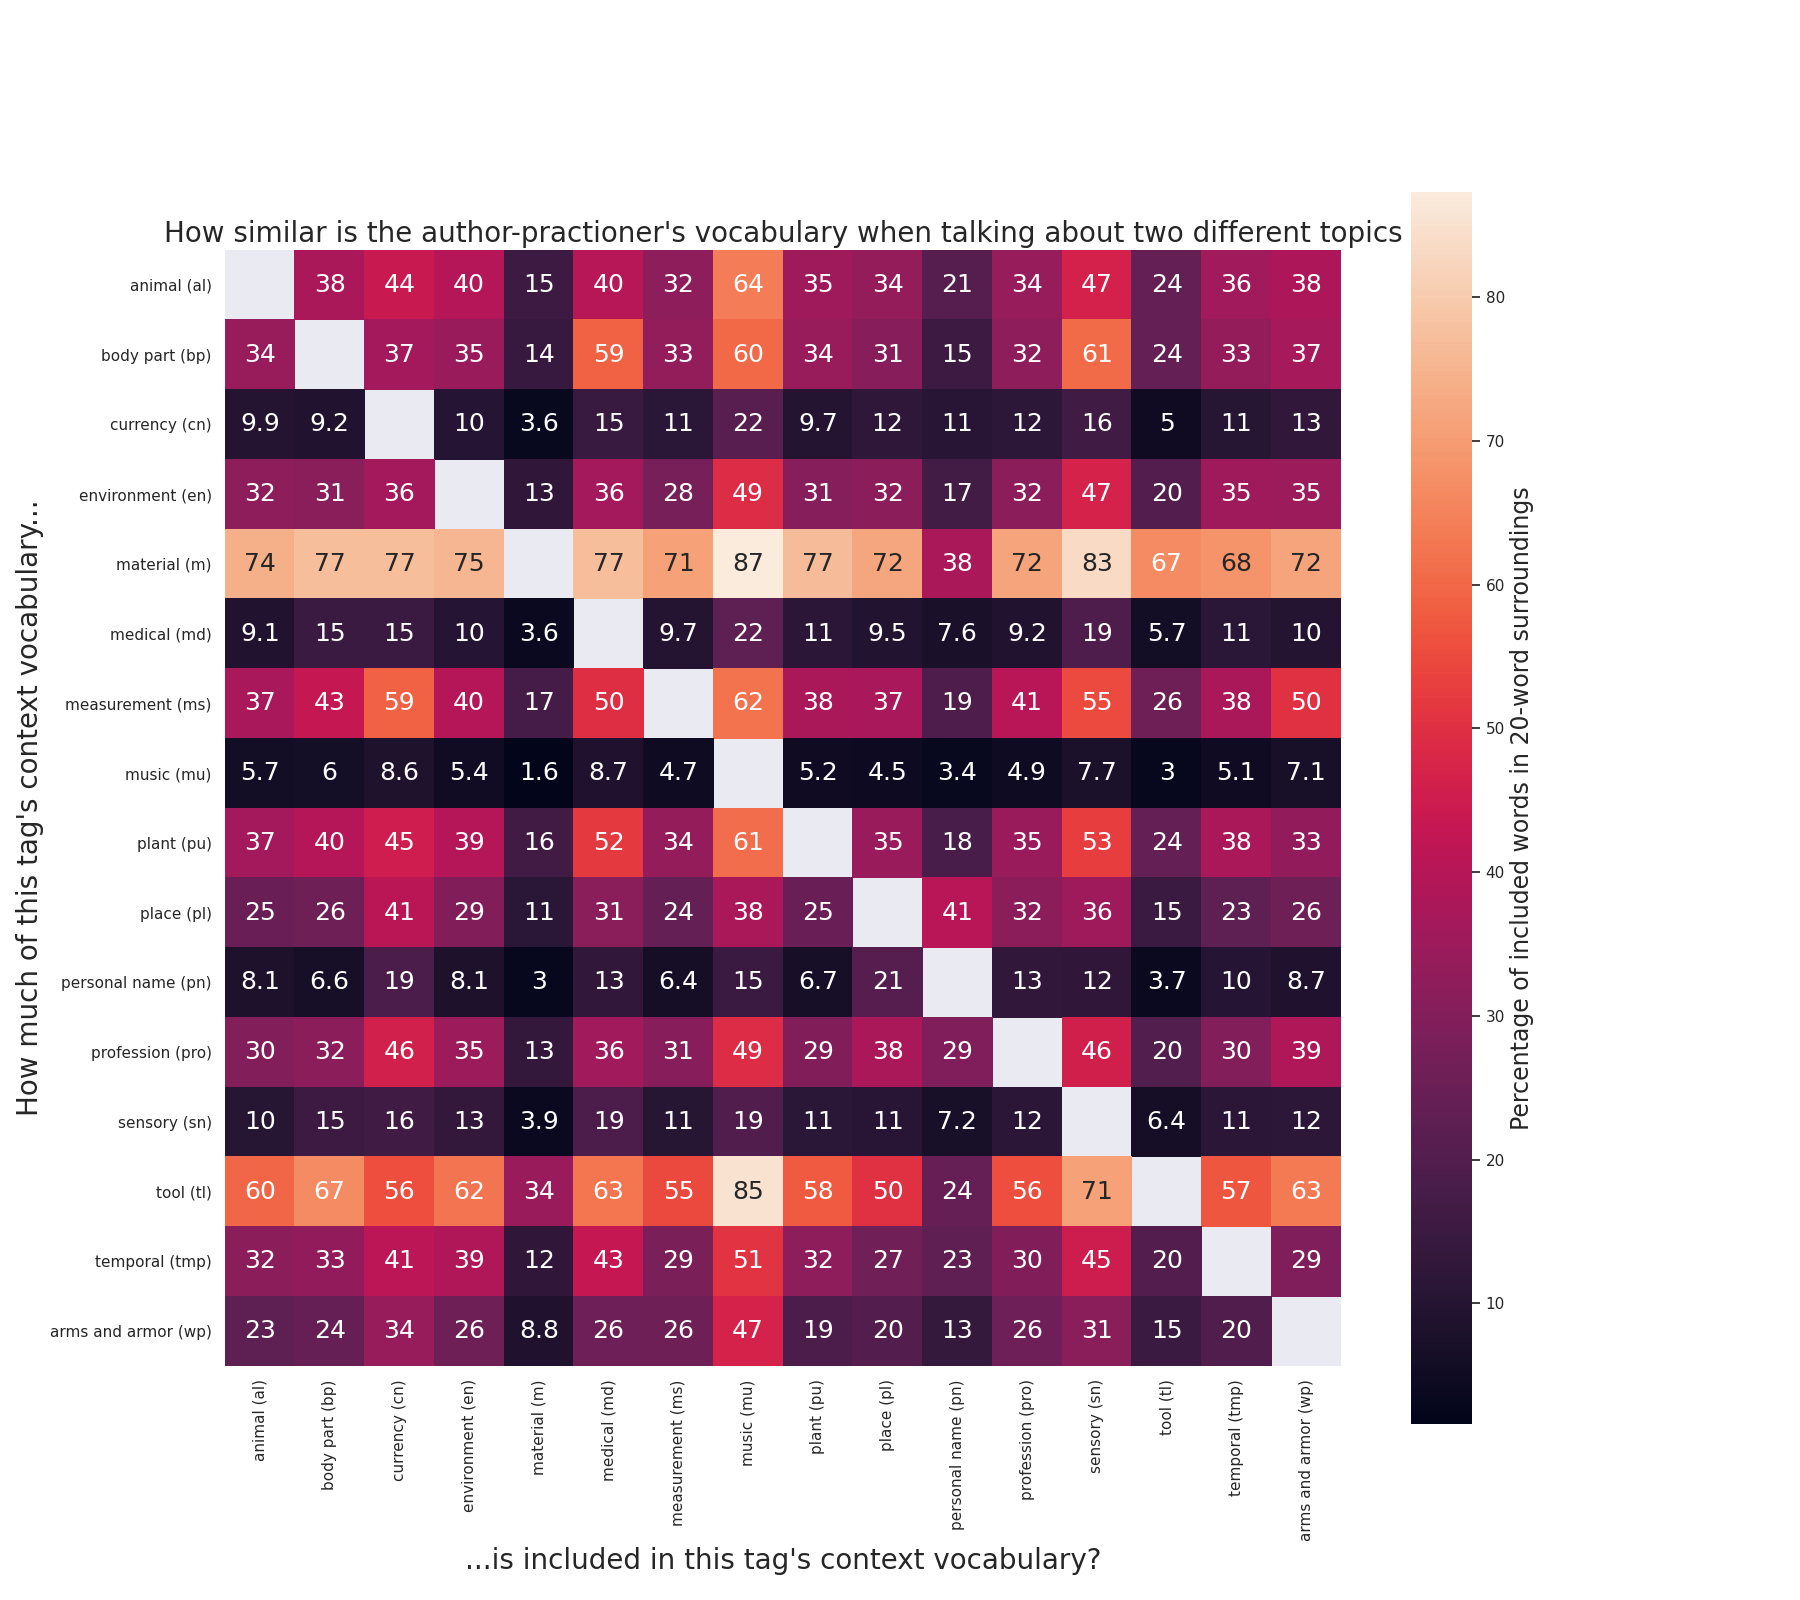
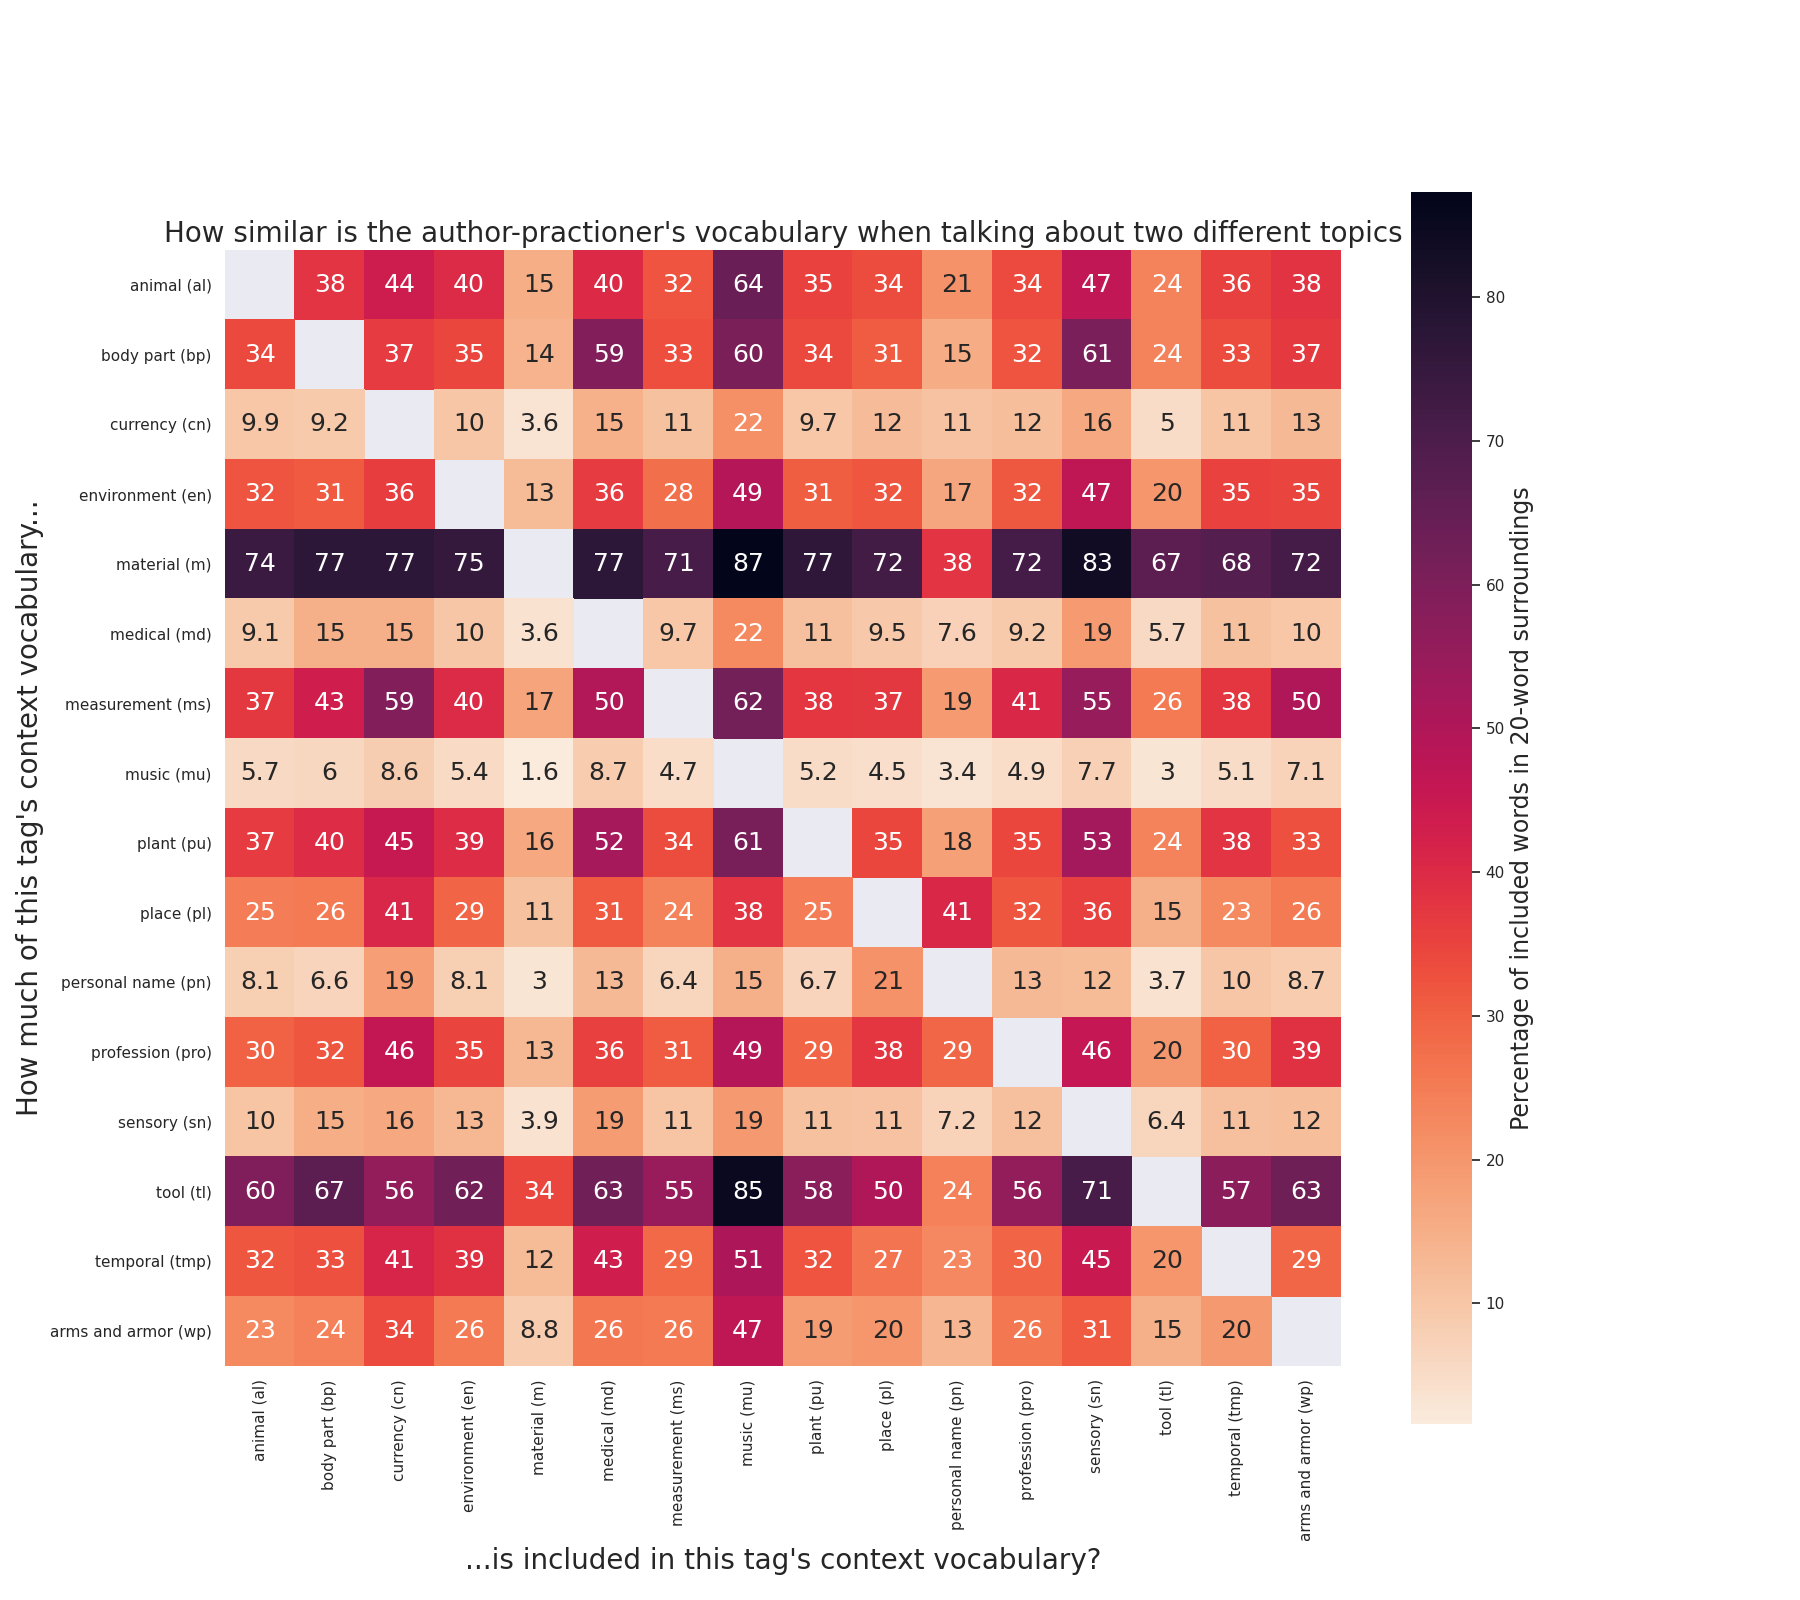
invert colormap for heatmaps

diff --git a/context_viz.py b/context_viz.py
@@ -112,7 +112,8 @@ def create_symmetrical_heatmap():
     no_diag_mask = np.identity(len(tags))
     plt.subplots(figsize = (15, 15))
     heatmap = sns.heatmap(df, square = True, mask = no_diag_mask,
-                          annot = True, annot_kws = {"size": 16})
+                          annot = True, annot_kws = {"size": 16},
+                          cmap = sns.cm.rocket_r)
     heatmap.collections[0].colorbar.set_label("Percentage of similar words in 20-word surroundings",
                                               fontsize = 20)
     heatmap.set_title("How similar is the author-practioner's vocabulary when talking about two different topics",
@@ -137,7 +138,8 @@ def create_asymmetrical_heatmap():
     no_diag_mask = np.identity(len(tags))
     plt.subplots(figsize = (18, 16))
     heatmap = sns.heatmap(df, square = True, mask = no_diag_mask,
-                          annot = True, annot_kws = {"size": 18})
+                          annot = True, annot_kws = {"size": 18},
+                          cmap = sns.cm.rocket_r)
     heatmap.collections[0].colorbar.set_label("Percentage of included words in 20-word surroundings",
                                               fontsize = 17)
     heatmap.set_title("How similar is the author-practioner's vocabulary when talking about two different topics",
